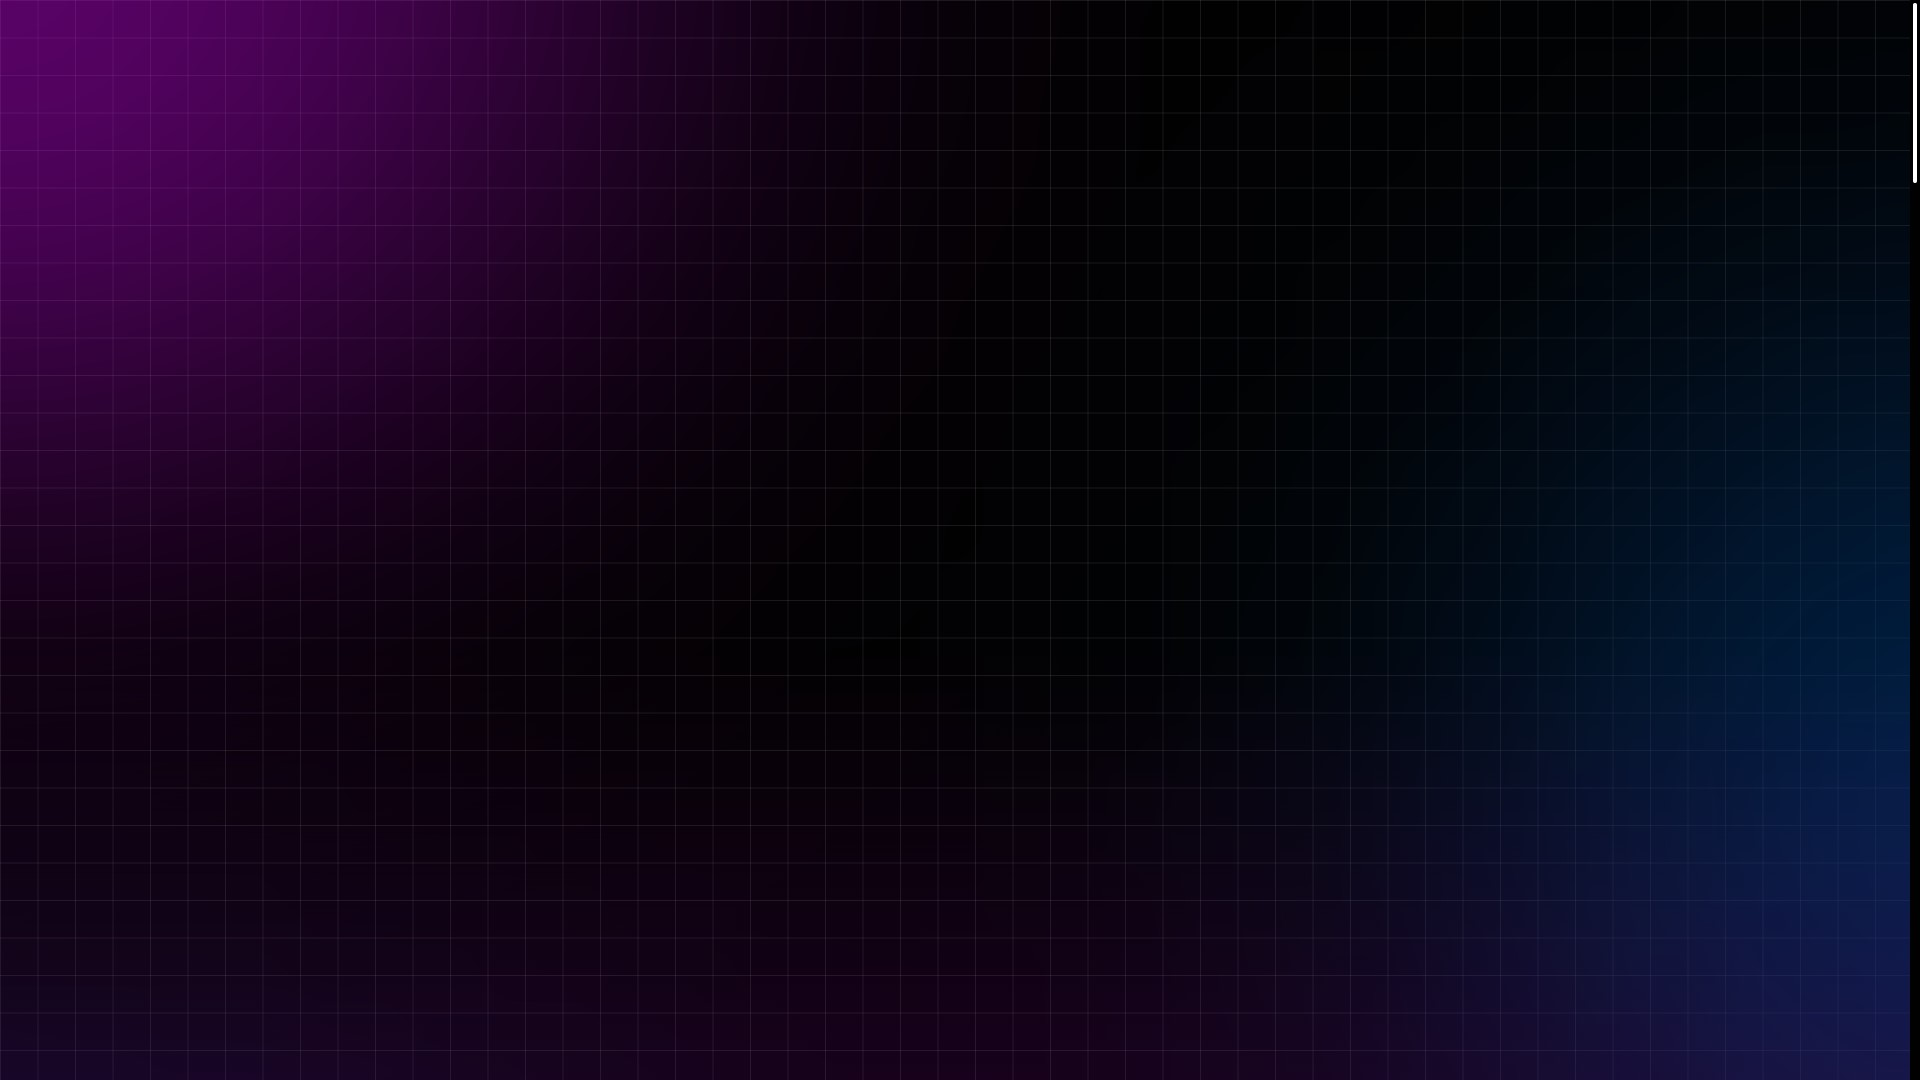
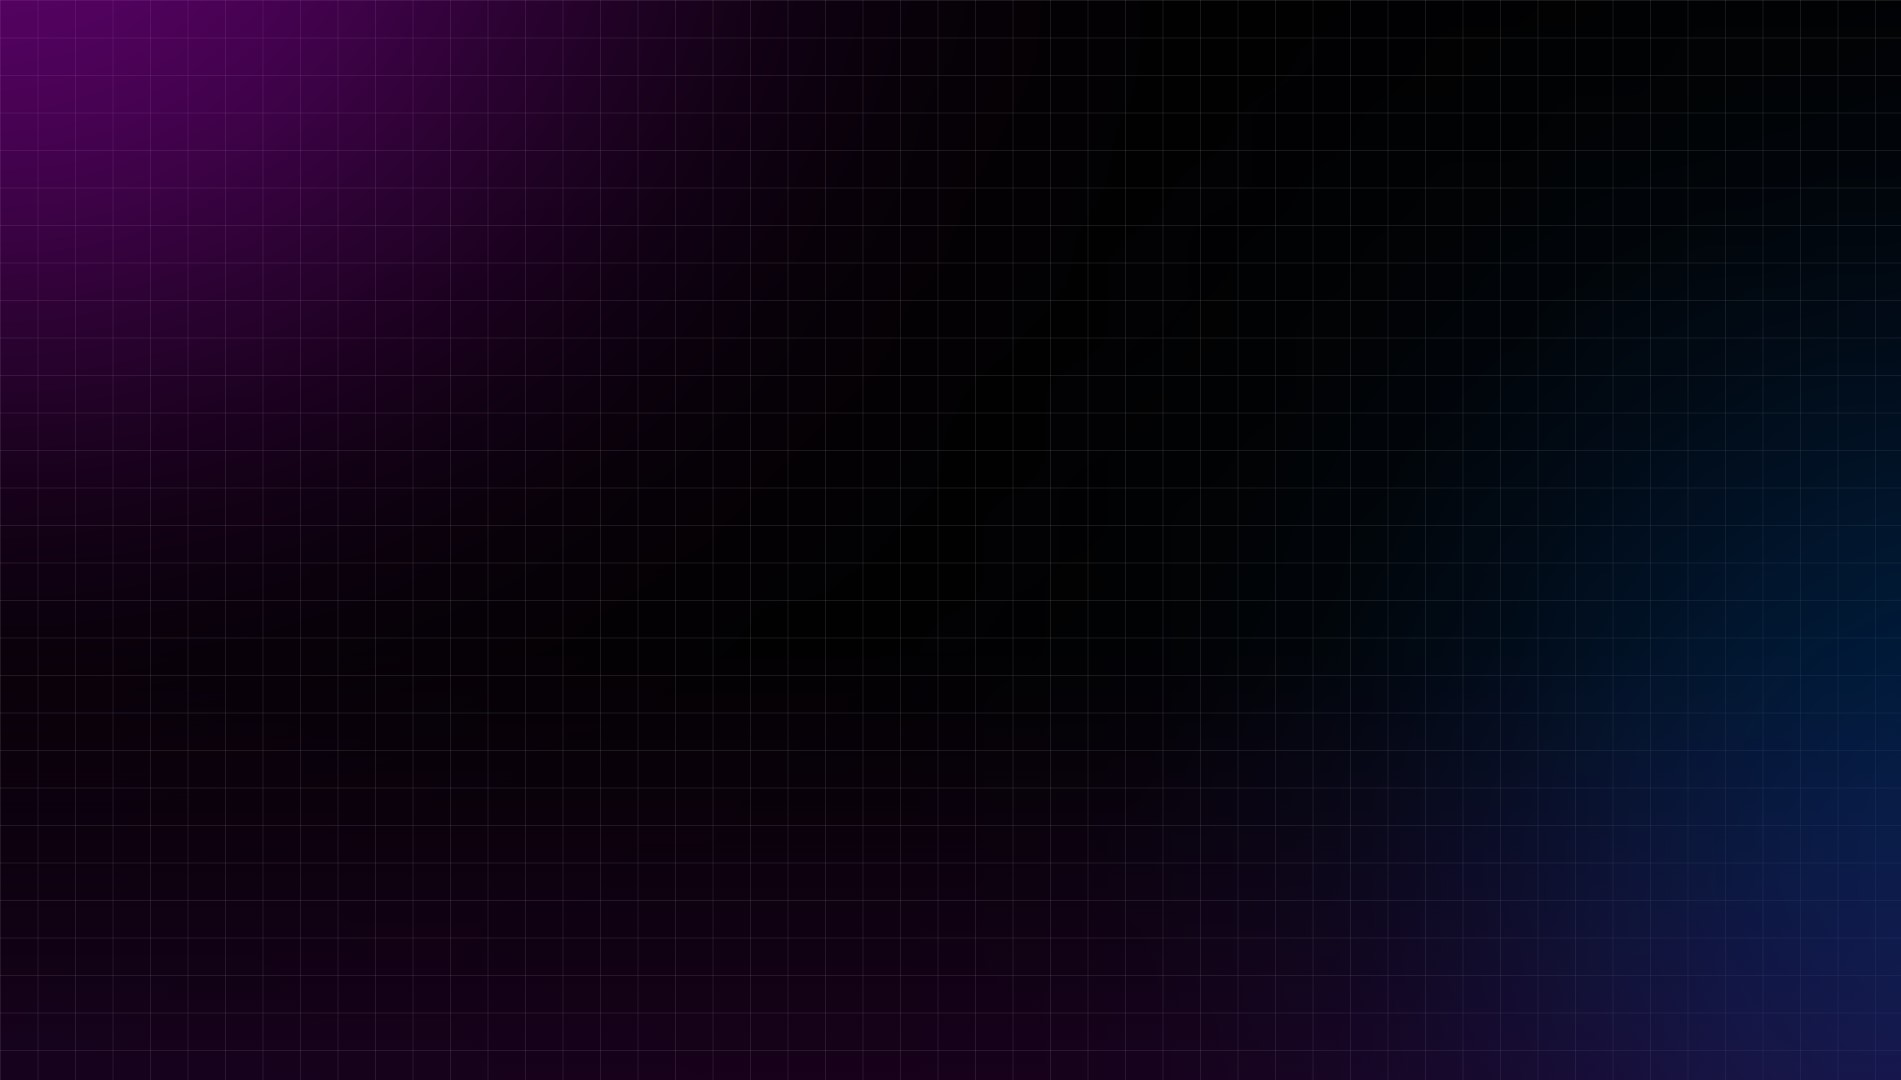
cosmetic changes + small bug fixes

Changed region(s): [[0.9932, 0.3056, 1.0, 1.0], [0.9932, 0.0, 1.0, 0.1833]]

diff --git a/src/styles/ComponentStyles.css b/src/styles/ComponentStyles.css
@@ -1,3 +1,9 @@
+body {
+    /* background-position: 50% !important; */
+    /* background-size: 100% !important; */
+    /* background-repeat: no-repeat !important; */
+}
+
 .alert {
     background-color: rgb(255, 91, 91);
     text-align: center;
@@ -16,6 +22,26 @@
     border-radius: 12px;
     opacity: 0;
     outline: 1px solid white;
+}
+
+.logoContainer {
+    display: flex;
+    flex-direction: row;
+}
+
+.betaText {
+    padding: 5px;
+    border-radius: 3px;
+    border: 2px solid lime;
+    color: lime;
+    font-weight: 500;
+    font-size: .8em;
+    box-shadow: 0 0 5px lime;
+}
+
+.logo {
+    margin-right: 10px;
+    /* filter: drop-shadow(0 0 2px var(--theme-color)); */
 }
 
 @keyframes alert {
@@ -265,6 +291,8 @@
 .chatImg {
     width: 40px;
     margin: 0 5px;
+    height: 40px;
+    object-fit: cover;
     border-radius: 50%;
 }
 
@@ -394,7 +422,7 @@
 .messageContent p {
     padding: 10px;
     /* background-color: #2e2e2e; */
-    border-left: 3px solid #8e8e8e;
+    border-left: 2px solid #8e8e8e;
     /* background: var(--form-background-color); */
     /* color: white; */
     /* border-radius: 0px 8px 8px 8px; */
@@ -424,7 +452,7 @@
     /* justify-content: end; */
     /* border-radius: 8px 0 8px 8px; */
     /* background: var(--theme-color); */
-    border-left: 3px solid var(--theme-color);
+    border-left: 2px solid var(--theme-color);
     text-align: left;
     color: white;
     width: 80%;

diff --git a/src/components/Messages.jsx b/src/components/Messages.jsx
@@ -8,6 +8,8 @@ import { getStorage, ref, getMetadata } from "firebase/storage";
 
 
 const Messages = () => {
+
+    const notificationSound = new Audio("/notification.mp3");
     const [checkedUserImg, setCheckedUserImg] = useState("/user.svg");
     const [checkedChatImg, setCheckedChatImg] = useState("/user.svg");
     const [chatMessages, setChatMessages] = useState([]);
@@ -61,8 +63,6 @@ const Messages = () => {
                     }
                     else {
                         setCheckedChatImg("/user.svg")
-                        // checkUserImg = "/user.svg";
-                        // return checkUserImg
                     }
                 })
         }
@@ -74,6 +74,10 @@ const Messages = () => {
         checkUserImg();
         checkChatImg();
     }, [data])
+
+    useEffect(() => {
+        notificationSound.play()
+    }, [chatMessages])
 
     return (
         <div ref={messages} className="messages">

diff --git a/src/index.css b/src/index.css
@@ -9,8 +9,7 @@ body {
   padding: 0;
   background: var(--background-color);
   font-family: 'Inter', sans-serif;
-  background: url(/bg.jpg);
-  background-position: 50%;
+  background: url("/bg.jpg");
   /* background:
     radial-gradient(farthest-side at -33.33% 50%, #0000 52%, #444725 54% 57%, #0000 59%) 0 calc(220px/2),
     radial-gradient(farthest-side at 50% 133.33%, #0000 52%, #444725 54% 57%, #0000 59%) calc(220px/2) 0,
@@ -32,12 +31,12 @@ body {
 :root {
   --background-color: #161616;
   /* --background-color: #222831; */
-  --form-background-color: #5852D6;
+  /* --form-background-color: #00ee9f; */
   --form-interior-padding: 1em;
   --border-radius: 12px;
   --input-border-radius: 6px;
   --input-element-color: #242424;
   /* --input-element-color: #20232B; */
   /* --theme-color: #F3FC8A; */
-  --theme-color: #2077FF;
+  --theme-color: #002fff;
 }

diff --git a/src/pages/RegisterPage.jsx b/src/pages/RegisterPage.jsx
@@ -82,7 +82,7 @@ const RegisterPage = () => {
         <div className="page">
             {loading && <Loader />}
             <div className="formContainer">
-                <div className="logoContainer"> <img src="./logo.svg" alt="" className="formLogo" /> Sperse</div>
+                <div className="PageLogoContainer"> <img src="./logo.svg" alt="" className="formLogo" /> Sperse</div>
                 <h4 className="registerTitle title">Register</h4>
                 <form onSubmit={handleSubmit} className='registerForm form'>
                     <input pattern="[A-Za-z0-9 ]{1,32}" placeholder='Display name (Only letter & numbers)' className='registerInput  writtenInput' type="text" name="" />

diff --git a/src/pages/LoginPage.jsx b/src/pages/LoginPage.jsx
@@ -38,7 +38,7 @@ const LoginPage = () => {
         <div className="page">
             {loading && <Loader />}
             <div className="formContainer">
-                <div className="logoContainer"> <img src="./logo.svg" alt="" className="formLogo" /> Sperse</div>
+                <div className="PageLogoContainer"> <img src="./logo.svg" alt="" className="formLogo" /> Sperse</div>
                 <h4 className="loginTitle title">Login</h4>
                 <form onSubmit={handleSubmit} className='loginForm form'>
                     <input onKeyDown={removeSpace} placeholder='Email' className='loginInput  writtenInput' type="email" name="" />

diff --git a/src/styles/PageStyles.css b/src/styles/PageStyles.css
@@ -1,3 +1,9 @@
+body {
+    /* background-position: 50% !important; */
+    /* background-size: 100% !important; */
+    /* background-repeat: no-repeat !important; */
+}
+
 .page {
     height: 100vh;
     display: flex;
@@ -23,12 +29,12 @@
     width: 30%;
     border-radius: var(--border-radius);
     border: 5px solid var(--theme-color);
-    backdrop-filter: blur(5px);
-    -webkit-backdrop-filter: blur(5px);
+    /* backdrop-filter: blur(3px); */
+    /* -webkit-backdrop-filter: blur(5px); */
     /* min-width: 90%; */
 }
 
-.logoContainer {
+.PageLogoContainer {
     display: flex;
     flex-direction: column;
     justify-content: center;

diff --git a/src/components/Navbar.jsx b/src/components/Navbar.jsx
@@ -48,7 +48,7 @@ const Navbar = () => {
     // console.log(currentUser);
     return (
         <div className="navbar">
-            <div className="logoContainer"><img src="./logo.svg" alt="" className="logo" /></div>
+            <div className="logoContainer"><img src="./logo.svg" alt="" className="logo" /><div className="betaText">BETA</div></div>
             <div className="user">
                 <div className="userNameAndImg">
                     <img src={checkedUserImg} alt="" className="userImg" />

diff --git a/src/components/Input.jsx b/src/components/Input.jsx
@@ -81,10 +81,13 @@ const Input = () => {
             handleSend(e)
         }
     }
-
+    const handleKeyFromInput = (e) => {
+        e.code === "Enter" && handleKey(e)
+    }
     return (
         <div className="input">
             <input
+                onKeyDown={handleKeyFromInput}
                 autoFocus
                 onChange={(e) => setText(e.target.value)}
                 value={text}
